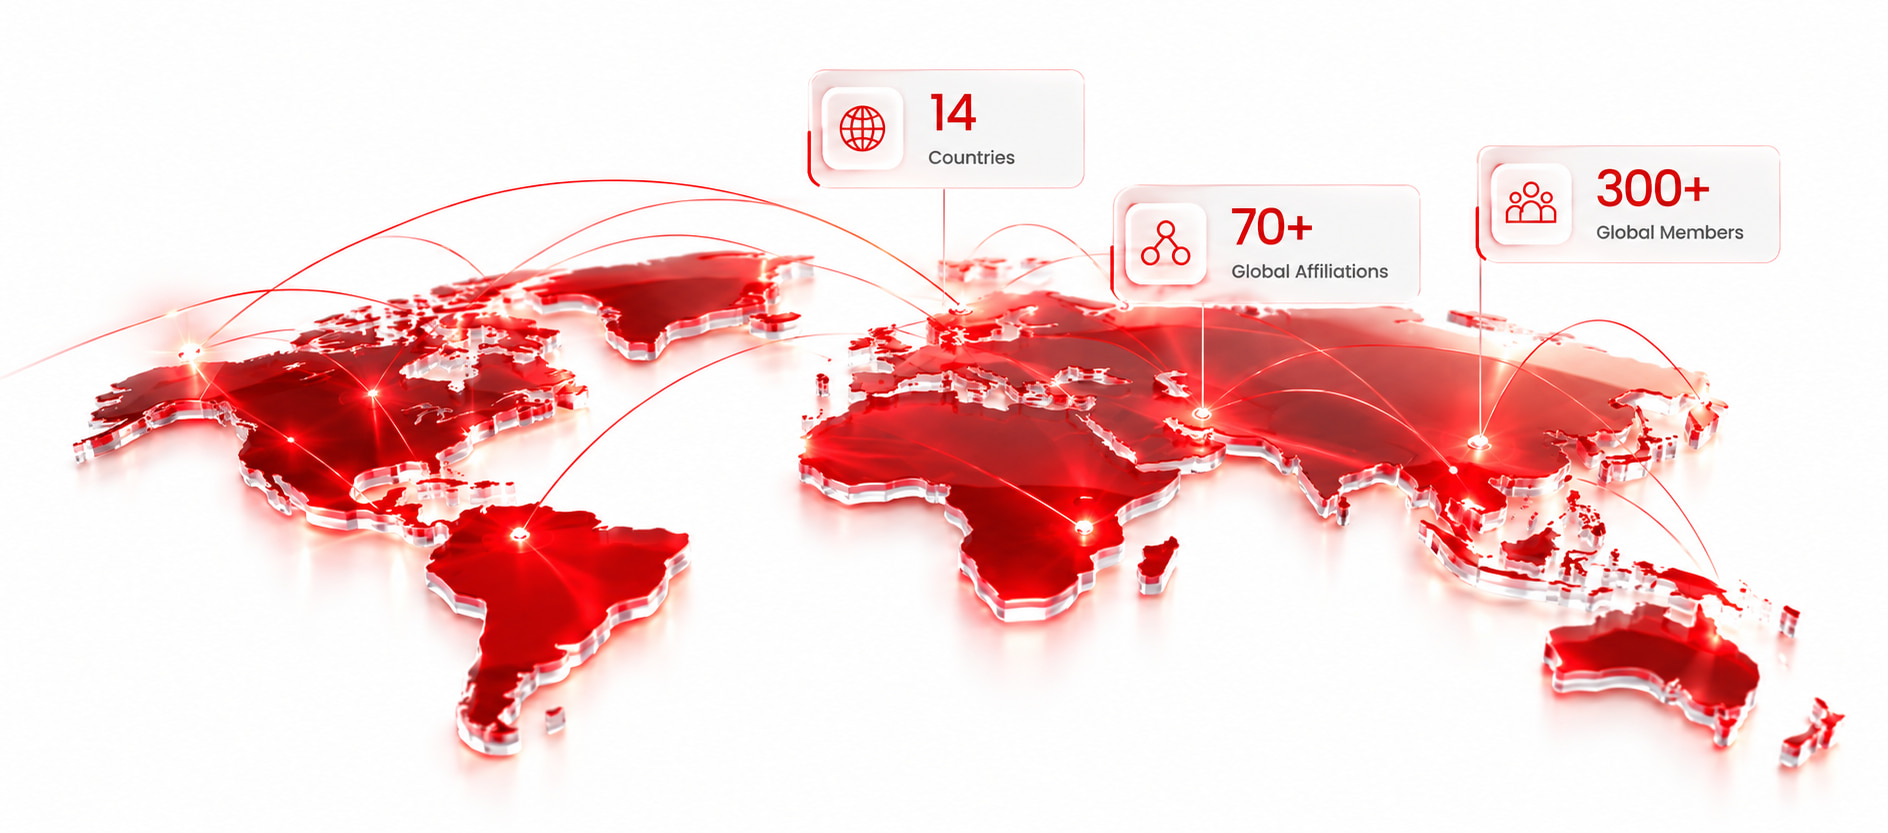
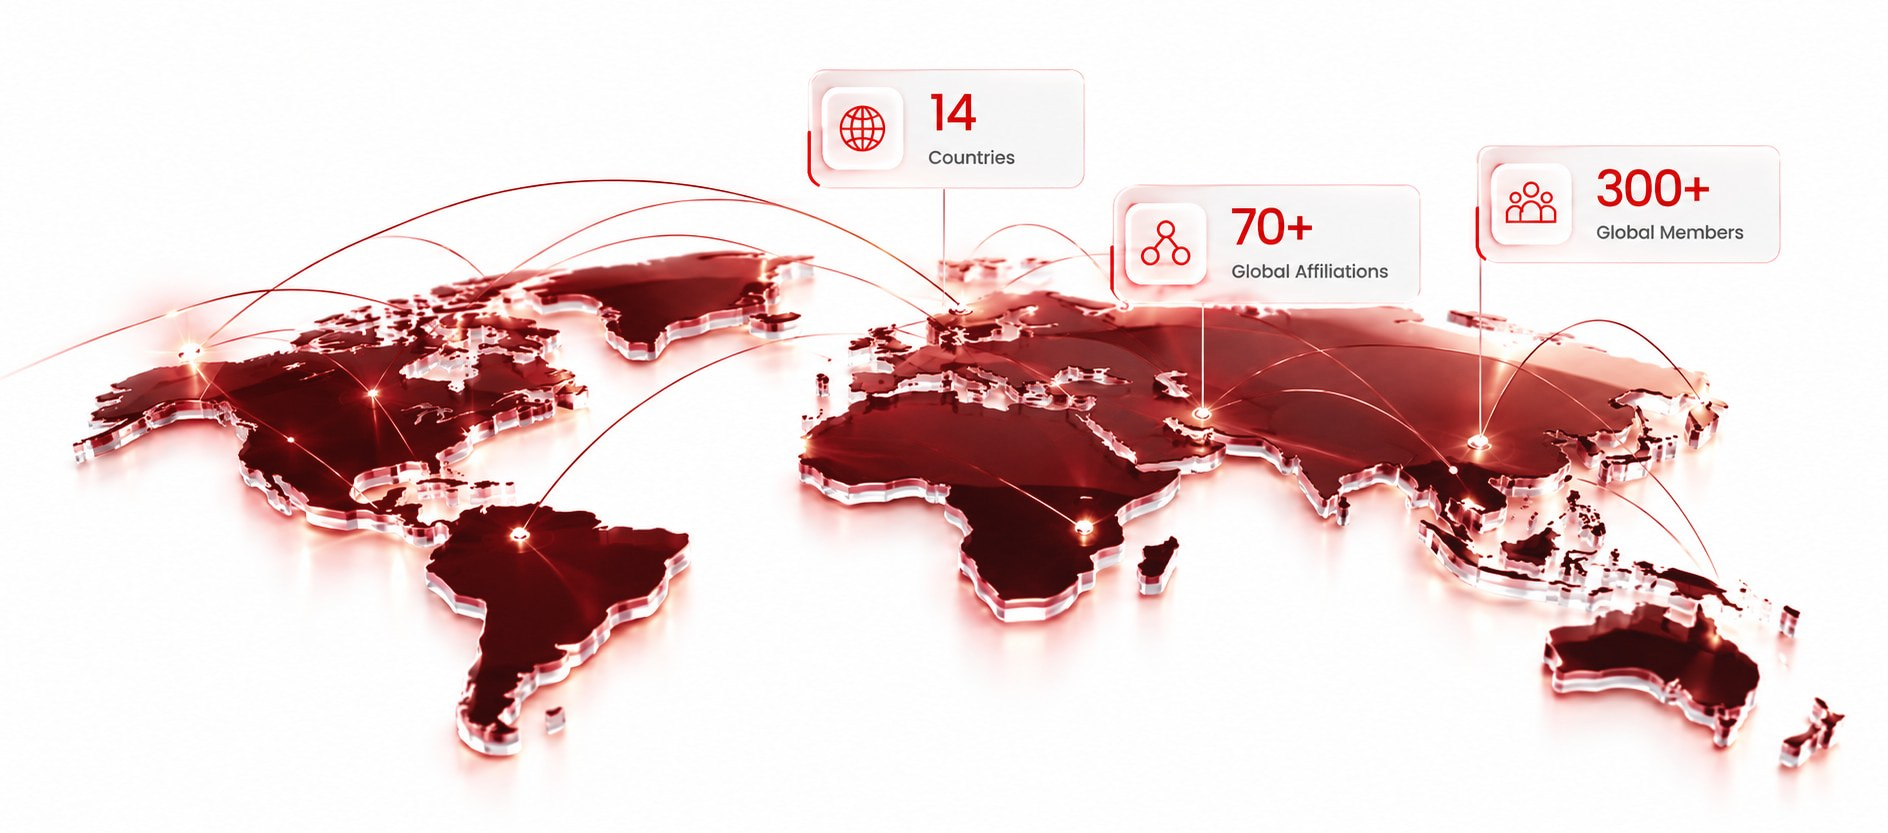
Home: larger corridor map, red-and-black presence map, five conversation topics
- Flagship band: the world map runs up to 980px wide, sized against the
  copy column so it never crosses the text
- Global presence: the map artwork re-toned so the land reads near-black
  with red glows, rims and arcs; the stat cards are untouched
- Get in touch: Web360 Memberships, Web360 Partnerships, Consulting and
  Advisory, Red Club Program, UAE Experience Center

Claude-Session: https://claude.ai/code/session_0175i1tC59WZtBpNwrmi2hKG

diff --git a/src/sections/GetInTouch.jsx b/src/sections/GetInTouch.jsx
@@ -15,10 +15,11 @@ import { waLink } from '../enquiry'
 
 /* each row opens the site's enquiry form already set to that topic */
 const TOPICS = [
-  { label: 'Memberships', note: 'Join the alliance and its network', topic: 'Ecosystem partnership' },
-  { label: 'Web3 Corridor', note: 'Enter a market through a corridor', topic: 'Web3 Corridor' },
-  { label: 'Consulting', note: 'Scope an advisory or delivery project', topic: 'Consulting' },
-  { label: 'Red Club', note: 'Events, programmes and labs', topic: 'Red Club (learner)' },
+  { label: 'Web360 Memberships', note: 'Join the alliance and its network', topic: 'Ecosystem partnership' },
+  { label: 'Web360 Partnerships', note: 'Partner with IBA across the ecosystem', topic: 'Ecosystem partnership' },
+  { label: 'Consulting and Advisory', note: 'Scope an advisory or delivery project', topic: 'Consulting' },
+  { label: 'Red Club Program', note: 'Events, programmes and labs', topic: 'Red Club (learner)' },
+  { label: 'UAE Experience Center', note: 'Blockchain and AI labs on campus', topic: 'Red Club / Verifyble (institution)' },
 ]
 
 export default function GetInTouch() {

diff --git a/src/brandbook.css b/src/brandbook.css
@@ -5275,13 +5275,16 @@ main {
 @media (max-width: 860px) {
   .cb__art {
     width: 100%;
-    max-width: 560px;
+    max-width: 720px;
   }
 }
+/* the map runs large, close to the panel's right edge (by request) */
 @media (min-width: 861px) {
   .cb__art {
-    width: min(54%, 760px);
-    right: max(16px, calc(var(--bb-gutter) - 60px));
+    --cb-art-right: max(8px, calc(var(--bb-gutter) - 180px));
+    right: var(--cb-art-right);
+    /* …but never across the copy column */
+    width: min(64%, 980px, calc(100% - var(--bb-gutter) - 29rem - var(--cb-art-right)));
   }
   .cb .cb__copy {
     max-width: min(100%, 31rem);
